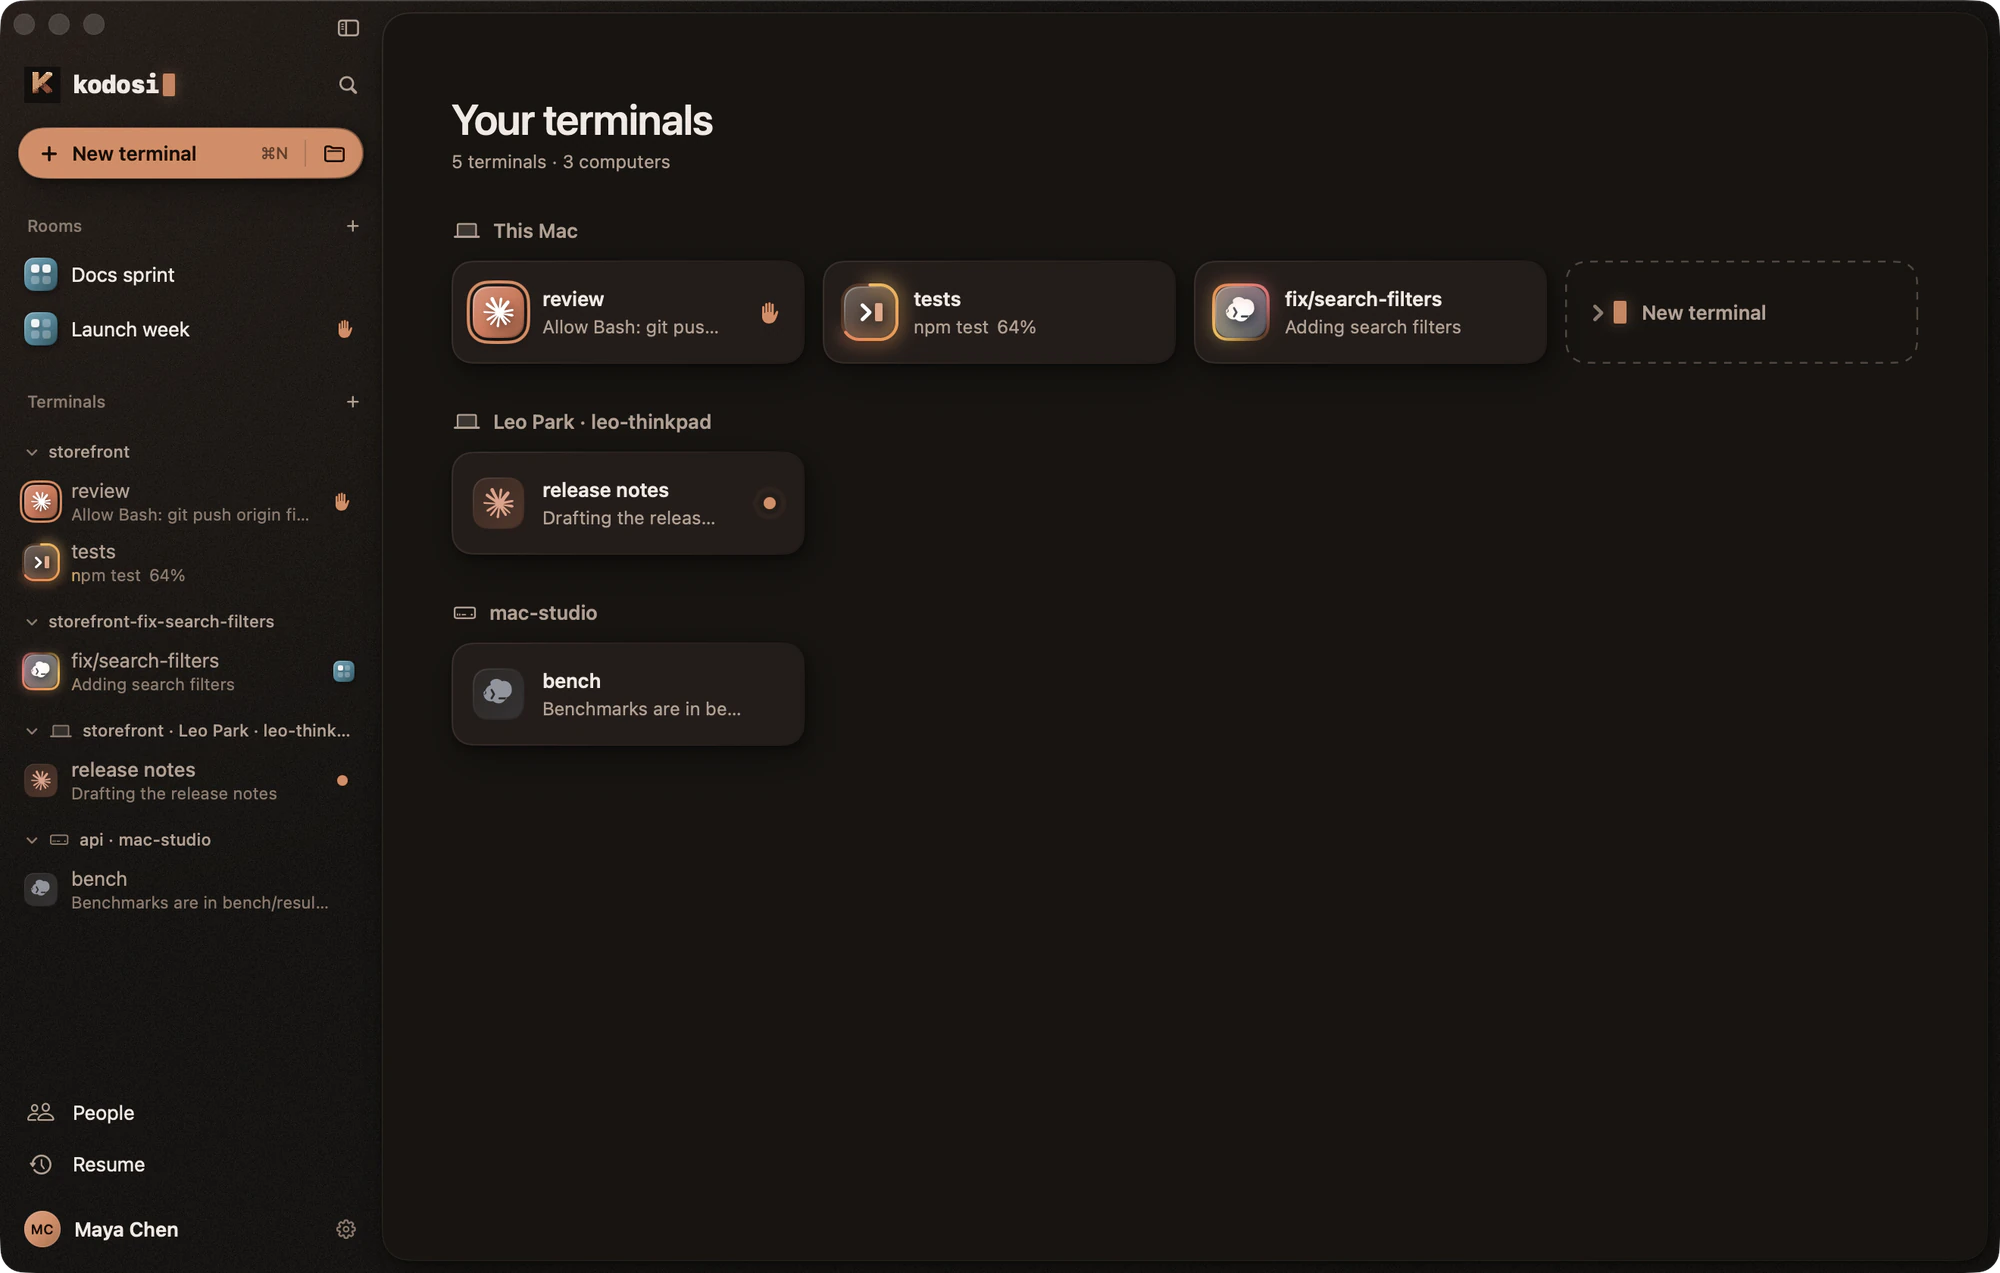
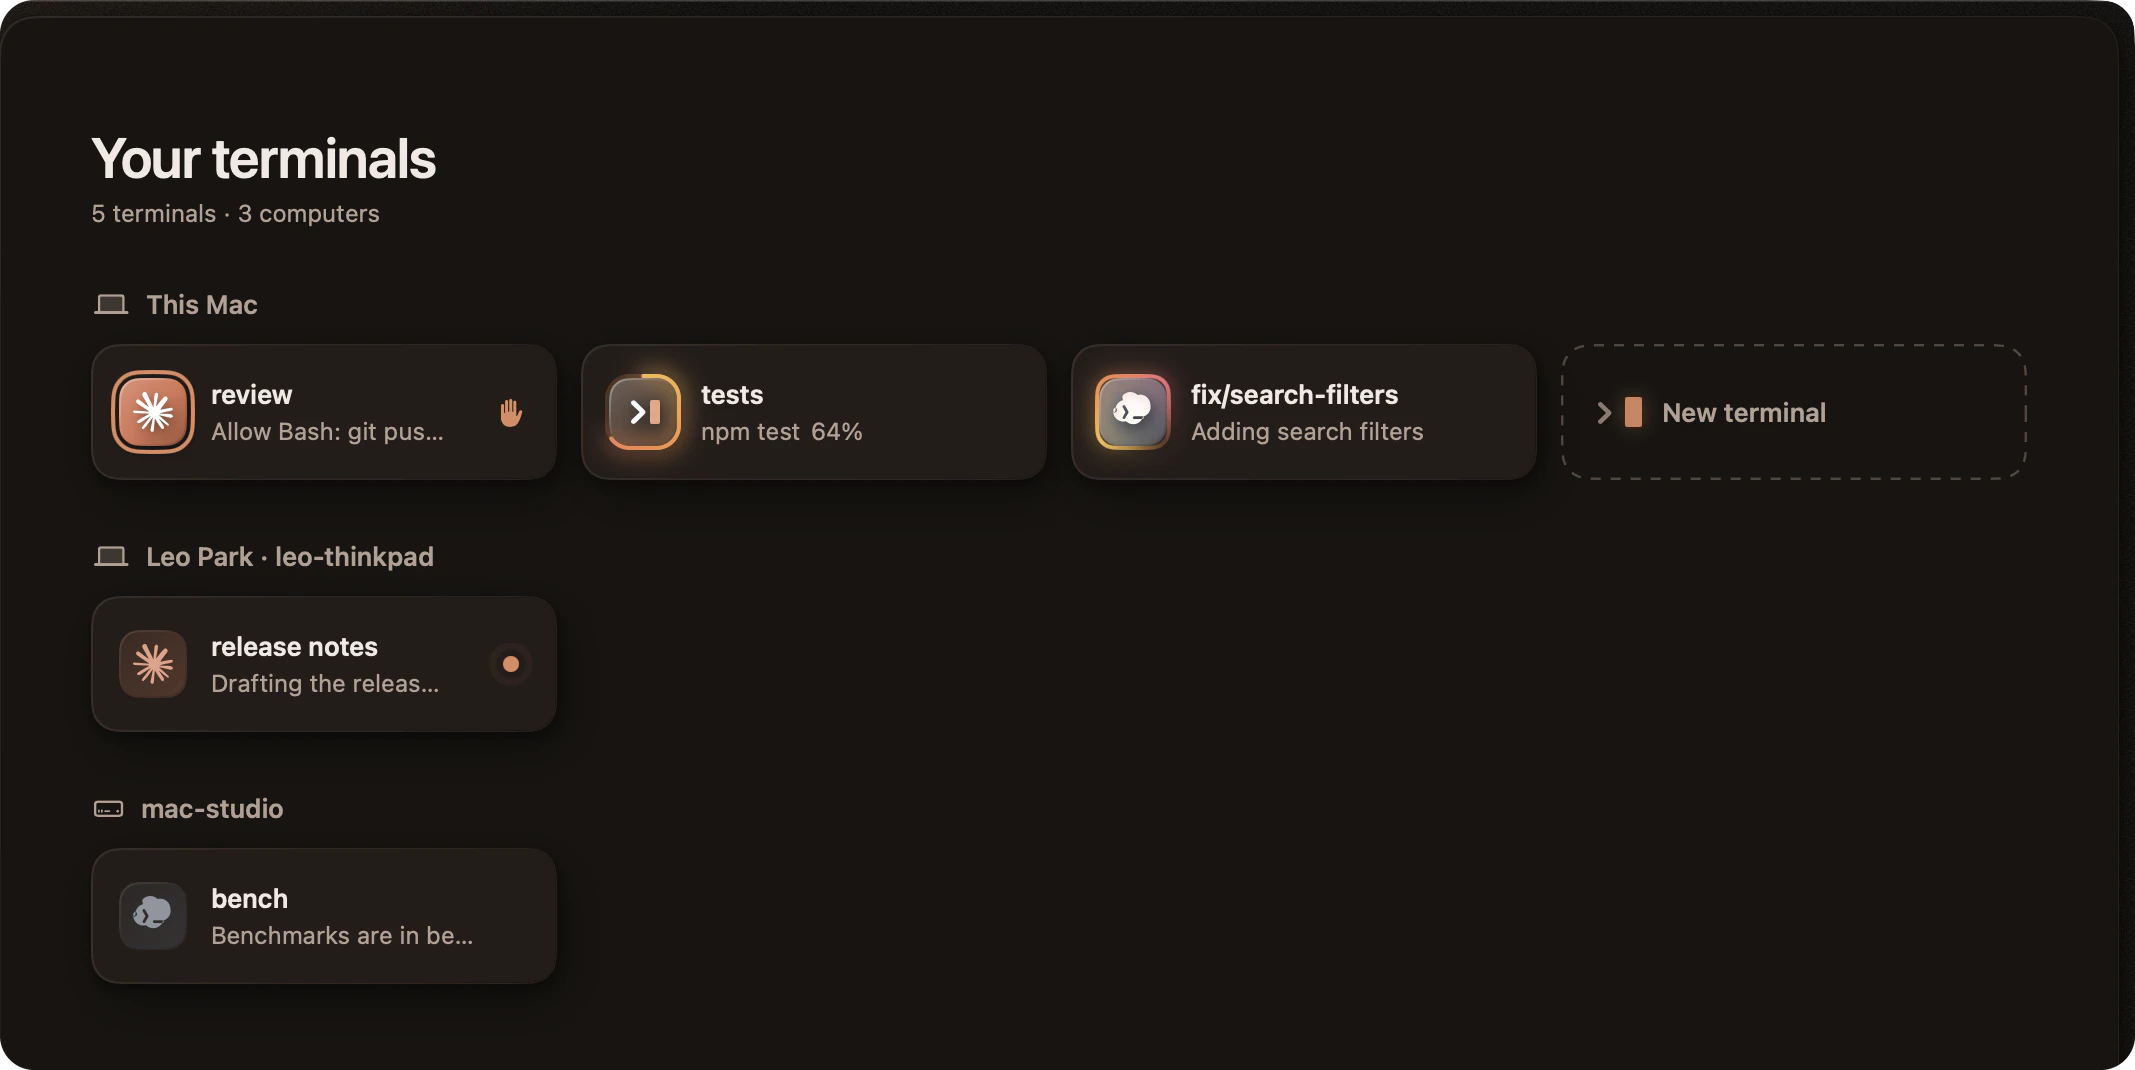
Crop the overview picture to its main panel
The full window had an empty lower half, and its text was small at the
width of the README.

diff --git a/README.md b/README.md
@@ -41,7 +41,7 @@ approved devices, and open the terminals that friends share with you. One list s
 all of them, grouped by computer.
 
 <p align="center">
-  <img src="docs/media/overview.webp" width="820" alt="The overview: five terminals on three computers, grouped as This Mac, a friend's laptop, and a second Mac.">
+  <img src="docs/media/overview.webp" width="760" alt="The overview: five terminals on three computers, grouped as This Mac, a friend's laptop, and a second Mac.">
 </p>
 
 ### See which agent needs you

diff --git a/docs/GETTING_STARTED.md b/docs/GETTING_STARTED.md
@@ -94,7 +94,7 @@ Approved devices on the same account can open your terminals. The hosting comput
 must remain online with Kodosi running.
 
 <p align="center">
-  <img src="media/overview.webp" width="820" alt="The overview of all terminals, grouped by computer.">
+  <img src="media/overview.webp" width="760" alt="The overview of all terminals, grouped by computer.">
 </p>
 
 ## Share a terminal with a friend
